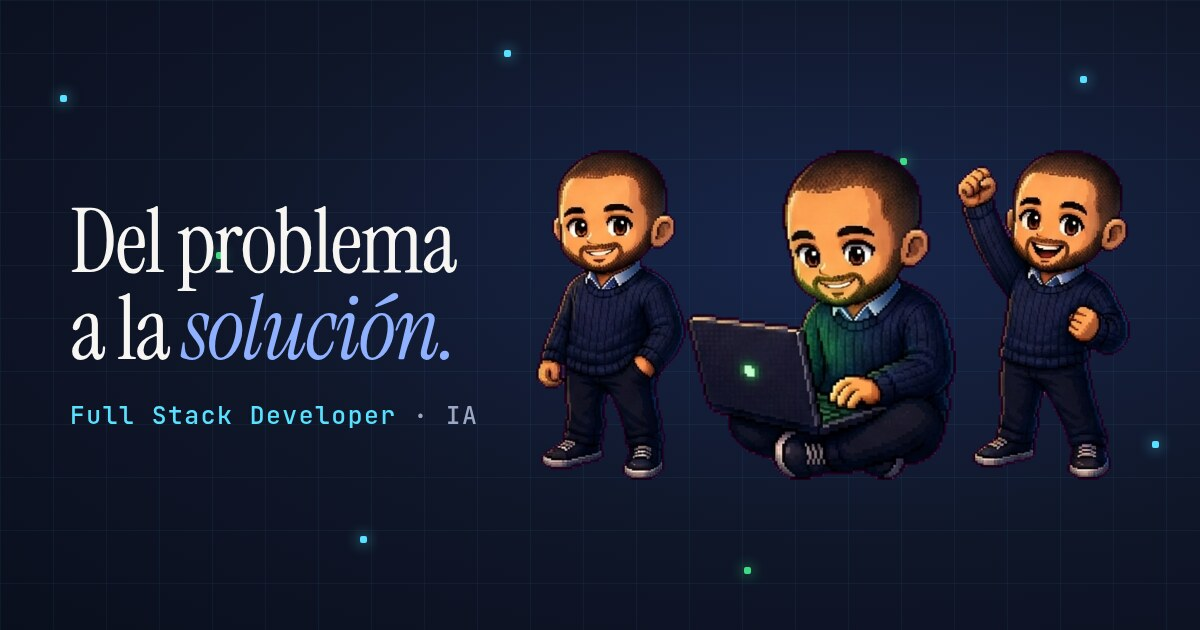
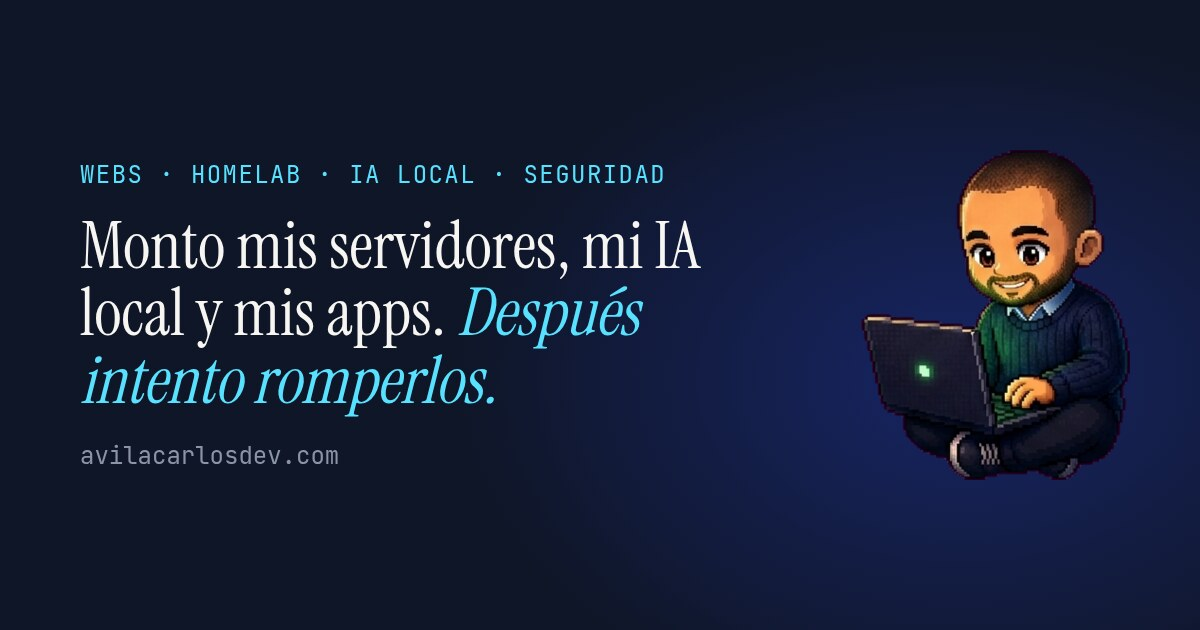
feat: titular nuevo (homelab, IA local y apps), meta title e imagen para compartir
- Portada es/en: «Monto mis servidores, mi IA local y mis apps. Después intento romperlos.»
- h1 de la portada más chico para la frase larga
- Subtítulo sin repetir lo de los servidores
- og.jpg nuevo (1200×630)

diff --git a/src/styles/global.css b/src/styles/global.css
@@ -70,7 +70,7 @@ img { max-width: 100%; height: auto; }
   border-radius: 999px; padding: 6px 14px; font-size: 12px; color: var(--mute);
 }
 .eyebrow i { width: 7px; height: 7px; border-radius: 50%; background: var(--blue); }
-.hero h1 { font-size: clamp(54px, 8vw, 112px); letter-spacing: -0.03em; line-height: 0.95; margin: 22px 0; }
+.hero h1 { font-size: clamp(40px, 5.6vw, 76px); letter-spacing: -0.02em; line-height: 1; margin: 22px 0; }
 .hero p { max-width: 560px; margin: 0 0 28px; color: var(--mute); font-size: 18px; }
 .cta { display: flex; gap: 12px; flex-wrap: wrap; }
 .frame { width: 100%; max-width: 460px; justify-self: end; margin: 0; border-radius: 22px; overflow: hidden; background: #fff; border: 1px solid var(--line); box-shadow: 0 20px 60px rgba(15, 22, 40, 0.1); }
